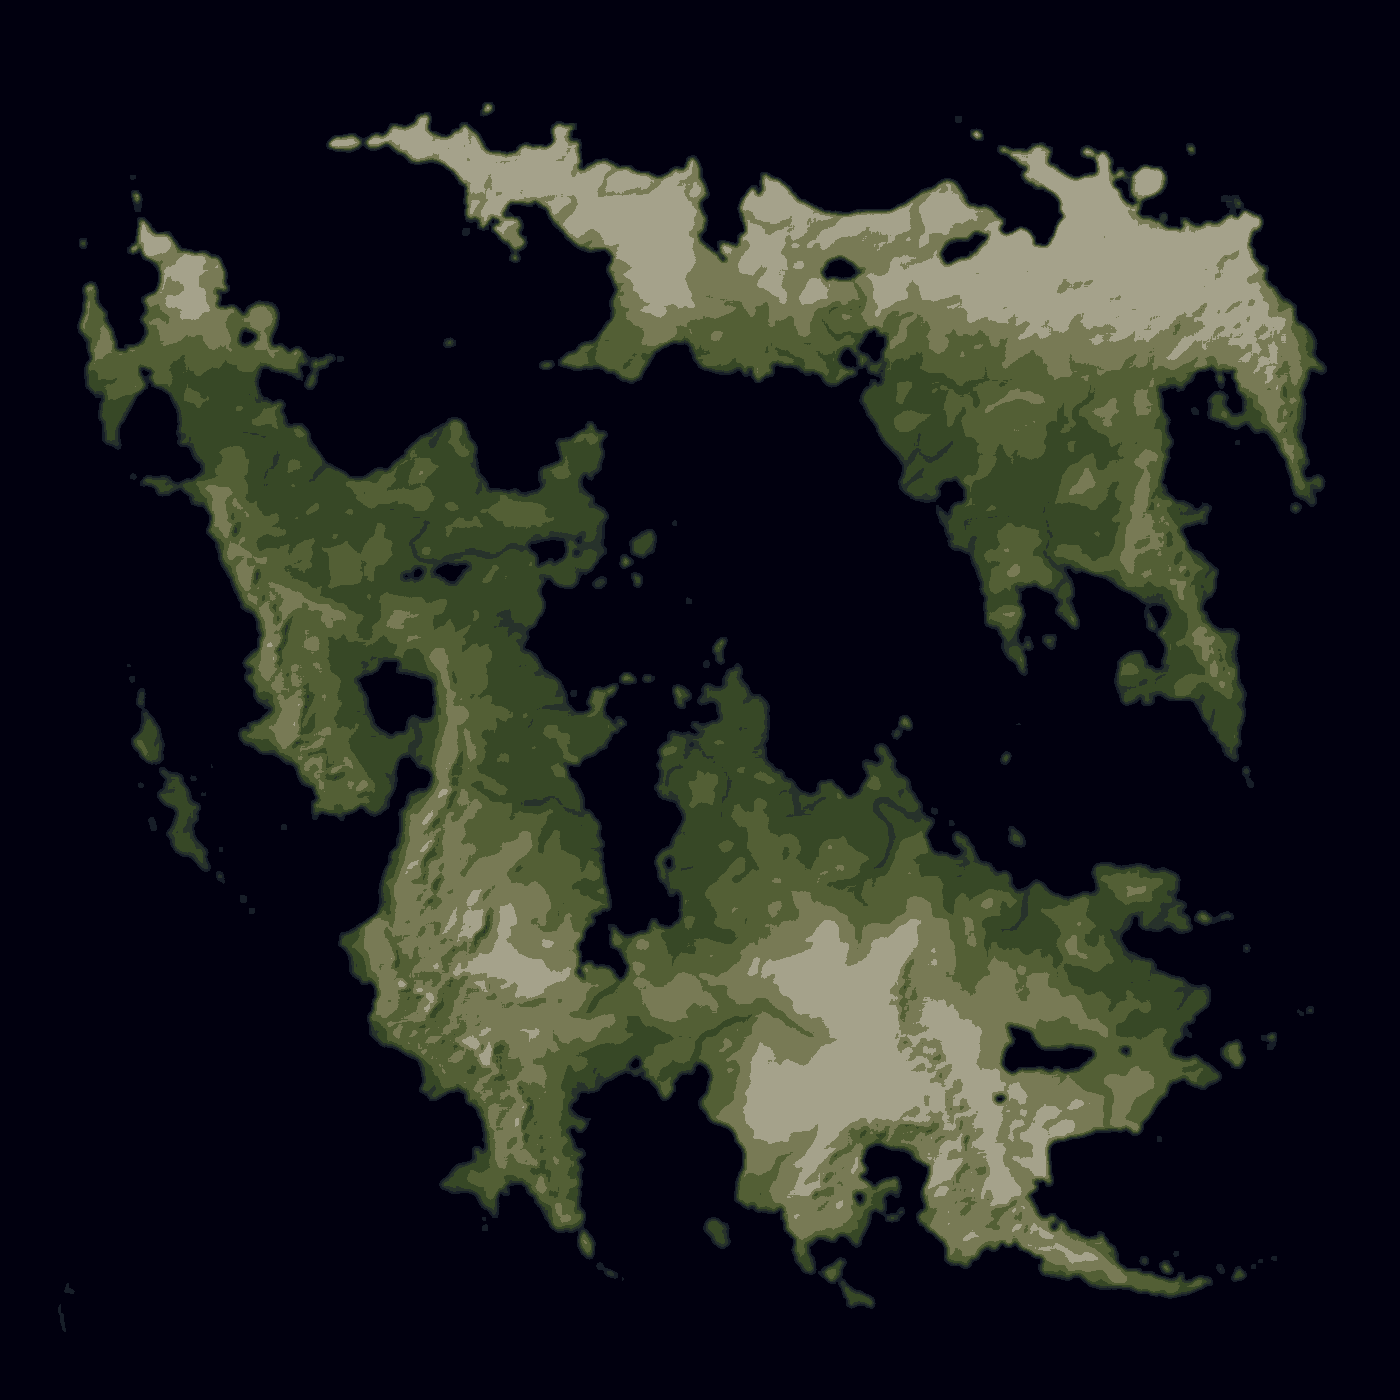
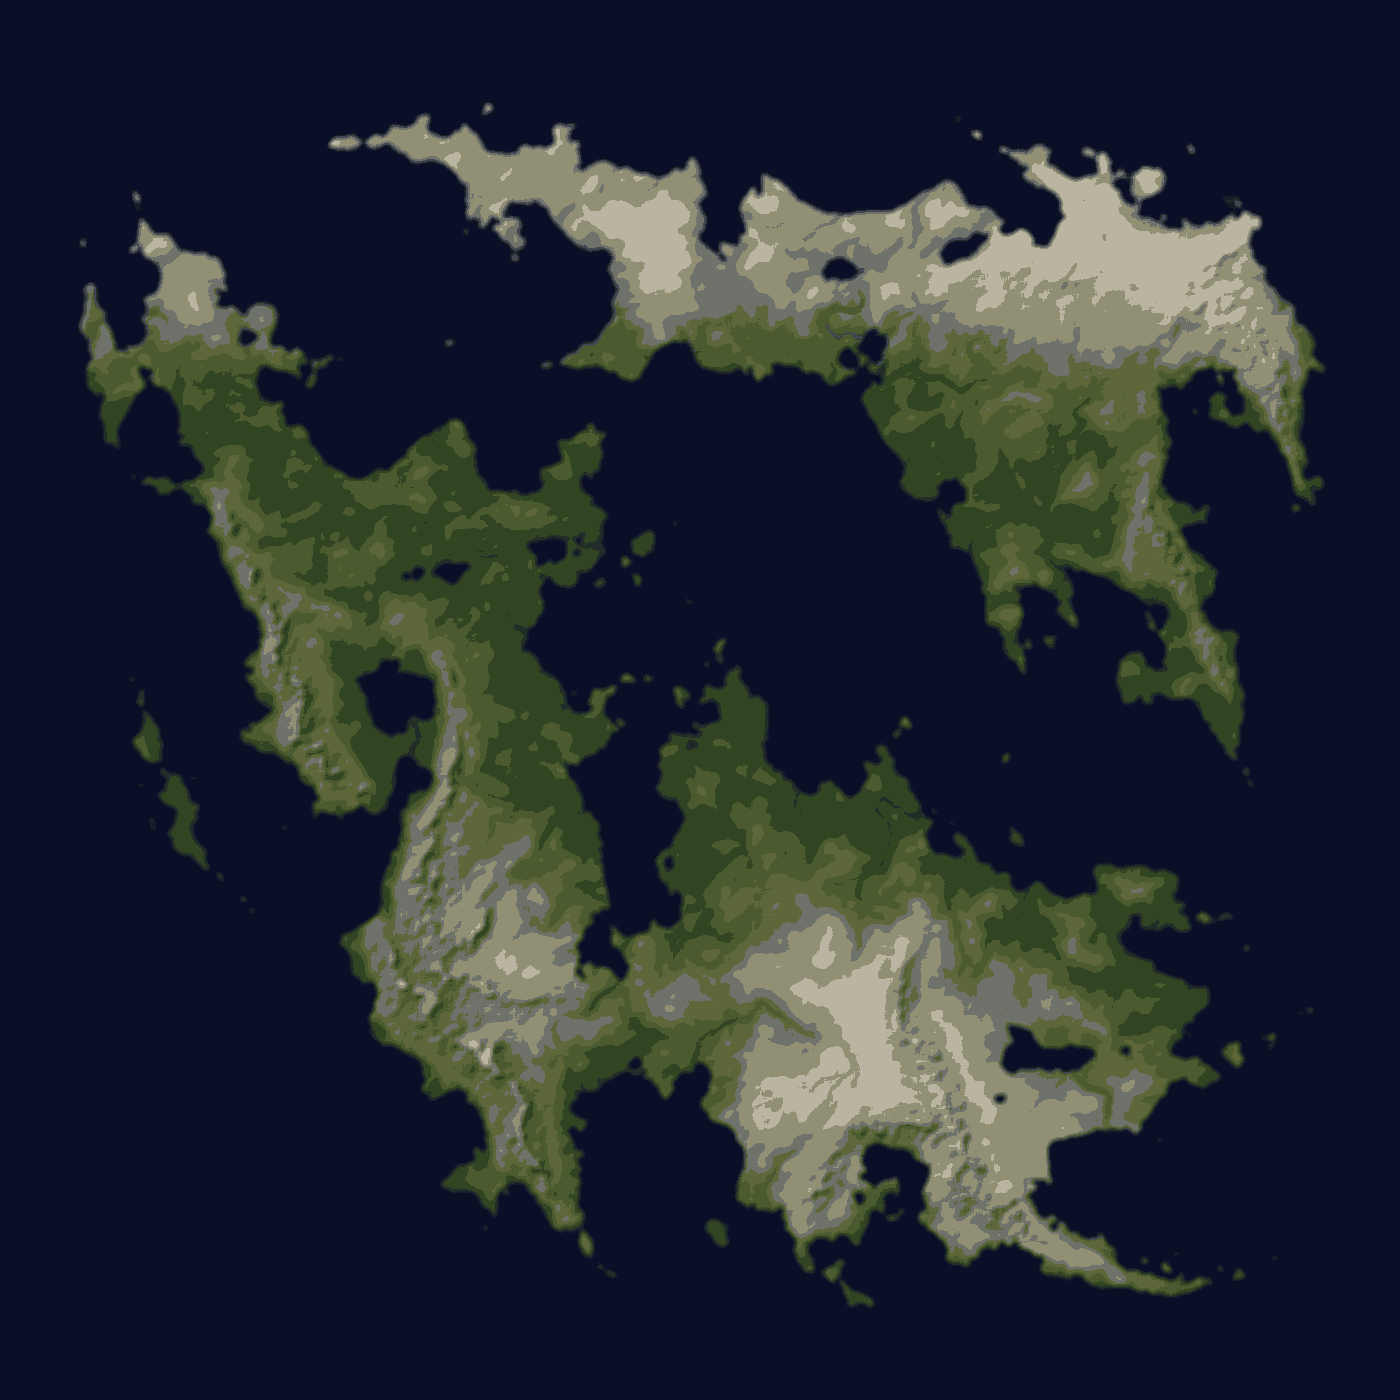
Filtrage par biome

diff --git a/src/MainDBSCAN.java b/src/MainDBSCAN.java
@@ -12,6 +12,7 @@ import javax.imageio.ImageIO;
 import java.awt.*;
 import java.awt.image.BufferedImage;
 import java.io.File;
+import java.io.IOException;
 import java.util.ArrayList;
 import java.util.HashMap;
 import java.util.List;
@@ -86,8 +87,35 @@ public class MainDBSCAN {
             }
 
             // 6. Sauvegarde
+            //File biomeMapFile = new File("carte_biomes.png");
+            //ImageIO.write(biomeMap, "PNG", biomeMapFile);
+
+            // 6. Sauvegarde de la carte complète
             File biomeMapFile = new File("carte_biomes.png");
             ImageIO.write(biomeMap, "PNG", biomeMapFile);
+
+            // ==========================================
+            // 7. Visualisation de Biome Individuel (Bonus)
+            // ==========================================
+            System.out.println("Génération du calque pour un biome spécifique...");
+
+            // On vérifie qu'on a bien trouvé des biomes
+            if (!paletteBiome.isEmpty()) {
+                // Pour l'exemple, on prend le tout premier biome de ta HashMap
+                Map.Entry<String, Color> biomeCible = paletteBiome.entrySet().iterator().next();
+                String nomBiome = biomeCible.getKey();
+                Color couleurBiome = biomeCible.getValue();
+
+                System.out.println("Isolement en cours pour le biome : " + nomBiome);
+
+                // On nettoie le nom du fichier au cas où il y aurait des espaces
+                String nomFichierPropre = nomBiome.replaceAll("\\s+", "_");
+                String fichierSortie = "masque_biome_" + nomFichierPropre + ".png";
+
+                // On appelle notre nouvelle méthode
+                genererMasqueBiome(originalImage, biomeMap, couleurBiome, fichierSortie);
+                System.out.println("Calque généré avec succès : " + fichierSortie);
+            }
 
         } catch (Exception e) {
             e.printStackTrace();
@@ -125,5 +153,39 @@ public class MainDBSCAN {
             }
         }
         return couleursUniques.toArray(new Color[0]);
+    }
+
+    /**
+     * Génère une image isolant un biome spécifique.
+     * Les pixels n'appartenant pas au biome deviennent transparents.
+     */
+    private static void genererMasqueBiome(BufferedImage imageOriginale, BufferedImage carteBiomes, Color couleurBiomeCible, String nomFichierSortie) throws IOException {
+        int width = imageOriginale.getWidth();
+        int height = imageOriginale.getHeight();
+
+        // On utilise ARGB pour gérer le canal Alpha (la transparence)
+        BufferedImage masqueImg = new BufferedImage(width, height, BufferedImage.TYPE_INT_ARGB);
+
+        // Couleur transparente (Noir avec 0 d'opacité)
+        int couleurTransparente = new Color(0, 0, 0, 0).getRGB();
+        int cibleRGB = couleurBiomeCible.getRGB();
+
+        for (int y = 0; y < height; y++) {
+            for (int x = 0; x < width; x++) {
+                // On regarde à quel biome appartient ce pixel sur la carte générée
+                int pixelBiomeCourant = carteBiomes.getRGB(x, y);
+
+                if (pixelBiomeCourant == cibleRGB) {
+                    // Si c'est le bon biome, on affiche le pixel de l'image source (ou floutée)
+                    masqueImg.setRGB(x, y, imageOriginale.getRGB(x, y));
+                } else {
+                    // Sinon, on rend le pixel invisible
+                    masqueImg.setRGB(x, y, couleurTransparente);
+                }
+            }
+        }
+
+        // Sauvegarde de l'image isolée
+        ImageIO.write(masqueImg, "PNG", new File(nomFichierSortie));
     }
 }